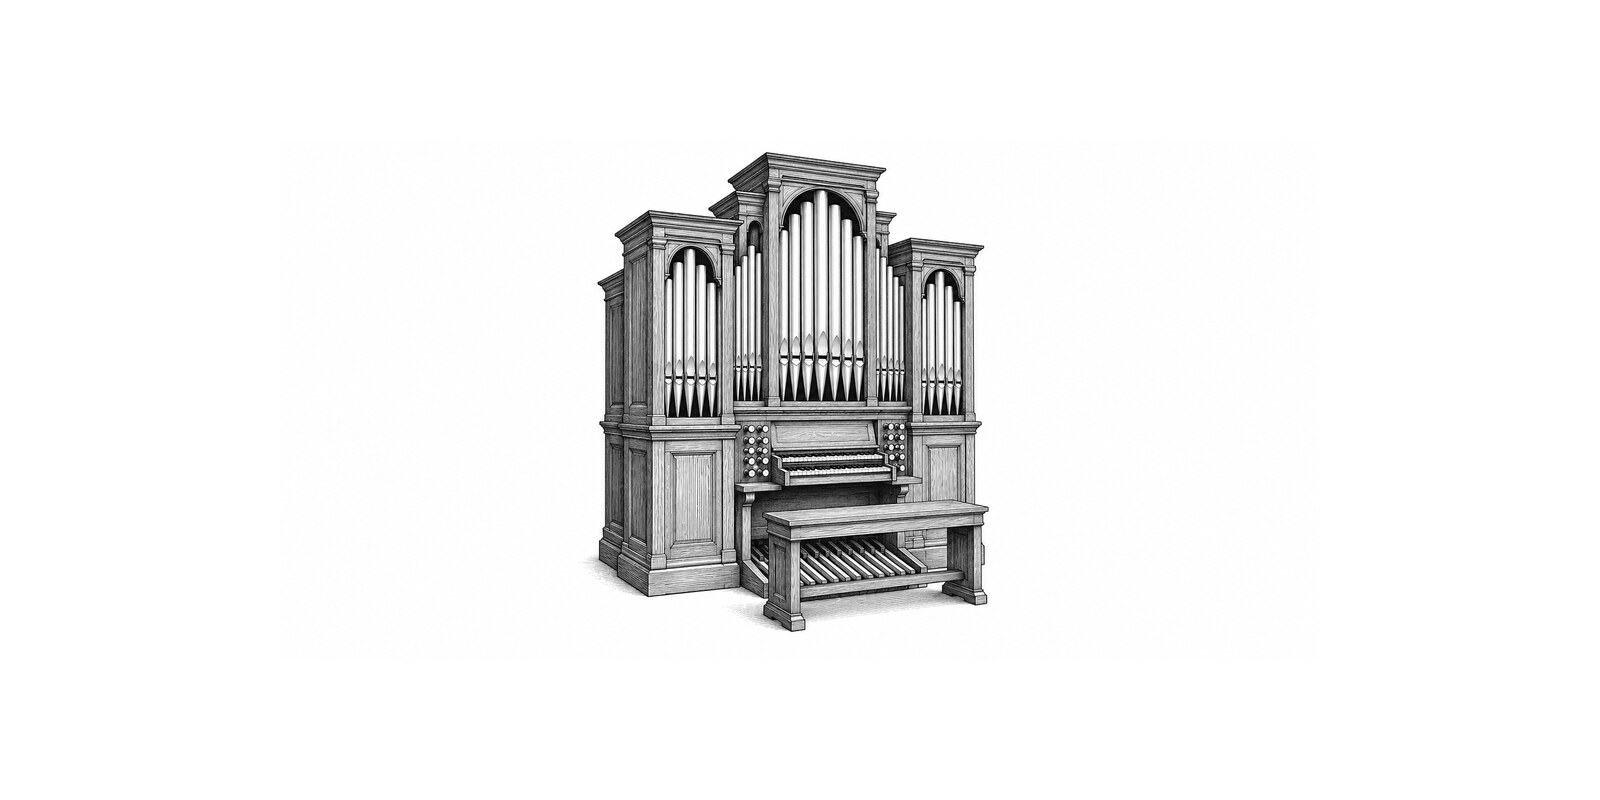
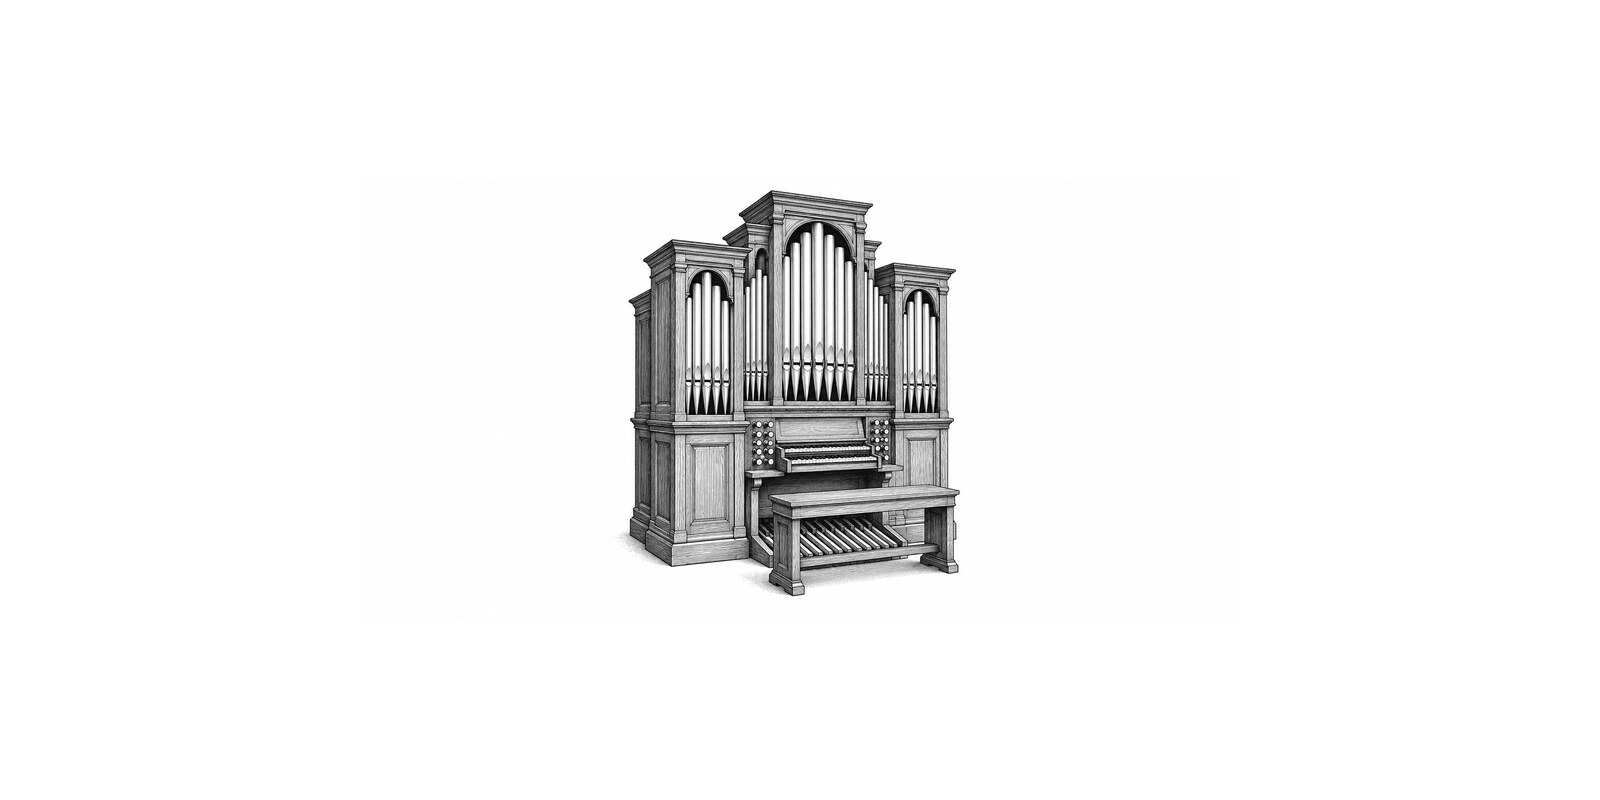
Protect organ cornice in OG Full and shorten compact headline

Changed region(s): [[0.3438, 0.1875, 0.625, 0.8125]]

diff --git a/docs/IMAGE_UPDATE_2026-10-27.md b/docs/IMAGE_UPDATE_2026-10-27.md
@@ -18,7 +18,7 @@ Kuhn's current catalogue distinguishes completed new organs from restorations an
 - `assets/exhibits/responsive-v2/pipe-organs-standard-4x3.jpg` — 1067×800
 - `assets/exhibits/pipe-organs.jpg` — legacy standard-path copy
 
-Grayscale JPEG, quality 88. Wide export contains the source at 1040×520 centered on 1600×800 white, providing vertical headroom for OG Full cover cropping. Standard is a genuine centered 1067×800 crop of a separate 1600×800 normalization of the source, preserving the pipe tops, case, pedalboard and bench. Legacy image is a copy of the standard.
+Grayscale JPEG, quality 88. The first hosted OG Full preview clipped the top cornice at a 1040×520 source containment. The corrected wide export contains the source at 880×440 centered on 1600×800 white, providing additional vertical headroom for OG Full cover cropping. Standard is a genuine centered 1067×800 crop of a separate 1600×800 normalization of the source, preserving the pipe tops, case, pedalboard and bench. Legacy image is a copy of the standard. The headline was also shortened after compact-layout review so its essential contrast remains readable.
 
 ### Device review gate
 

diff --git a/docs/IMAGE_WORKFLOW.md b/docs/IMAGE_WORKFLOW.md
@@ -2,7 +2,7 @@
 
 ## 27 October 2026 — Pipe Organs
 
-Original built-in generated artwork: `pipe-organs-master-2x1.jpg` (1600×800) and `pipe-organs-standard-4x3.jpg` (1067×800) under `assets/exhibits/responsive-v2/`. Complete prompt, scope review and crop/export decisions: [image update](IMAGE_UPDATE_2026-10-27.md).
+Original built-in generated artwork: `pipe-organs-master-2x1.jpg` (1600×800) and `pipe-organs-standard-4x3.jpg` (1067×800) under `assets/exhibits/responsive-v2/`. OG Full review required extra white space around the complete organ; the standard and legacy exports remain unchanged. Complete prompt, scope review and crop/export decisions: [image update](IMAGE_UPDATE_2026-10-27.md).
 
 ## 26 October 2026 — Tuatara
 
